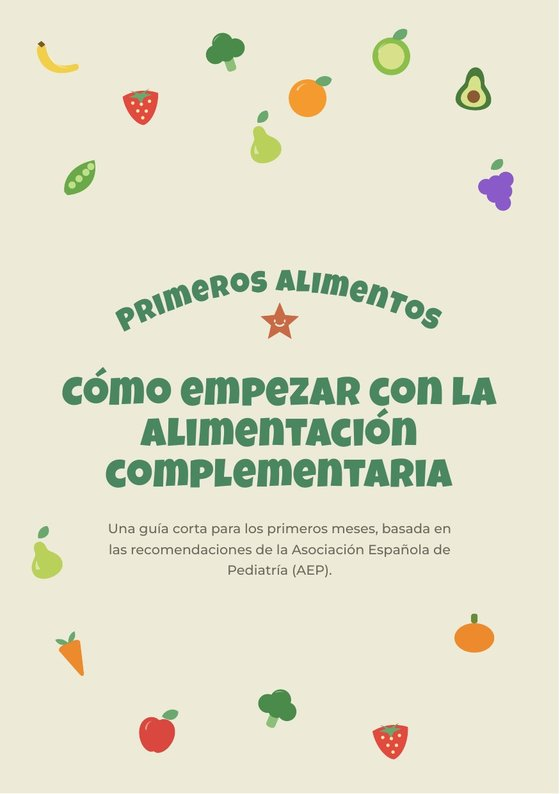
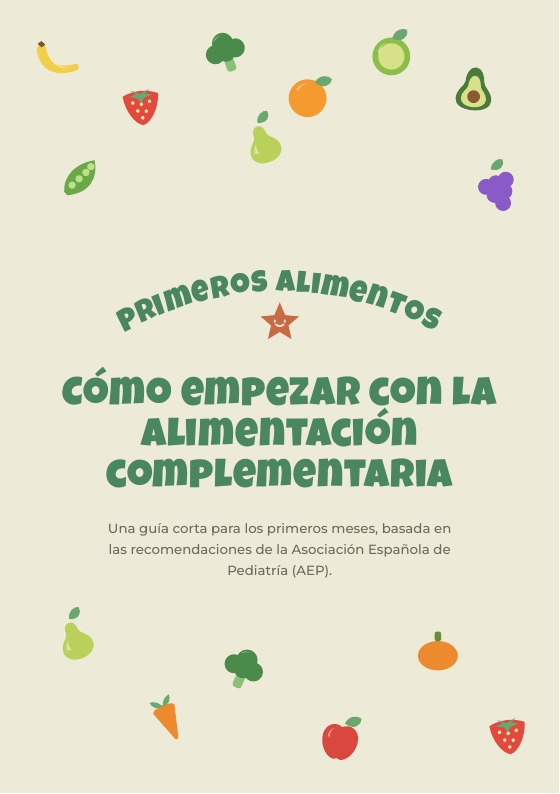
Home y blog: títulos sin etiquetas, mockup de la app en los artículos y portada de la guía
- Home: quitadas las etiquetas pequeñas sobre los títulos y títulos reescritos
  para que se entiendan solos. Más aire bajo el check de «¡Ya estás dentro!».
- Artículos: el bloque «Todo esto, en una app» lleva el mockup con dos pantallas.
- Blog: logo más grande en la cabecera.
- Guía PDF: frutas de la parte de abajo de la portada mejor repartidas
  (y la imagen de la portada en la web).

Claude-Session: https://claude.ai/code/session_011xjvAMdN8ANHfhiVhnxguA

diff --git a/index.html b/index.html
@@ -77,7 +77,7 @@ input[type=email]:focus{border-color:var(--green)}
 .err{margin:10px 0 0;min-height:0;color:#b3322a;font-size:.86rem;font-weight:600}
 .err:empty{display:none}
 .done{text-align:center}
-.done>svg{width:40px;height:40px}
+.done>svg{width:40px;height:40px;margin:0 auto 14px!important}
 .done h3{margin:4px 0 8px;font-size:1.7rem;color:var(--green);line-height:1.1}
 .done p{margin:0 0 18px;color:var(--mute);font-size:.95rem}
 .done .btns{display:flex;flex-direction:column;gap:10px}
@@ -277,7 +277,7 @@ footer .links{max-width:36em;margin-left:auto!important;margin-right:auto!import
 <main>
   <section id="como">
     <div class="wrap">
-      <span class="kick">Cómo funciona</span>
+      
       <h2>Qué le doy hoy, resuelto</h2>
       <p class="intro">Todo lo que necesitas para sus primeras comidas, en un solo sitio.</p>
 
@@ -323,7 +323,7 @@ footer .links{max-width:36em;margin-left:auto!important;margin-right:auto!import
         </div>
       </div>
 
-      <div class="fhead"><span class="kick">Y además</span><h2>Lo que te quita trabajo</h2></div>
+      <div class="fhead"><h2>Y además, te quita trabajo</h2></div>
       <div class="fgrid">
         <div class="fcard" style="--c:#4a8760">
           <div class="fic"><svg class="fd" viewBox="-3 -3 54 54" aria-hidden="true"><rect class="o" x="20" y="28" width="9" height="16" rx="3" fill="#8bbf7a" /><ellipse class="o" cx="14" cy="24" rx="9" ry="9" fill="#4a8a4a" /><ellipse class="o" cx="34" cy="24" rx="9" ry="9" fill="#4a8a4a" /><ellipse class="o" cx="24" cy="16" rx="10" ry="10" fill="#4a8a4a" /><ellipse class="o" cx="24" cy="26" rx="8" ry="8" fill="#4a8a4a" /><path d="M16 12c2-3 5-4 8-4-4 1-6 3-8 4z" fill="#fff" opacity=".45" stroke="none"/></svg></div>
@@ -352,8 +352,8 @@ footer .links{max-width:36em;margin-left:auto!important;margin-right:auto!import
       <div class="mewrap">
       <figure class="mephoto"><img src="capturas/martina.jpg" alt="Martina con Pol" onerror="this.parentElement.classList.add('empty')"><span>Tu foto aquí<br><small>capturas/martina.jpg</small></span></figure>
       <div>
-      <span class="kick">Por qué existe</span>
-      <h2>La hice para mí</h2>
+      
+      <h2>Por qué hice esta app</h2>
       <p>Soy Martina, diseñadora de producto y madre de Pol. Cuando empezó a comer probé las apps que había y ninguna me servía para lo de cada día: saber qué le tocaba, qué había probado ya y cómo se lo había dado.</p>
       <p>Así que me hice la mía. Estas semanas la han probado otras mamás, la hemos ido mejorando con lo que nos decían, y el 1 de diciembre la abro para todas.</p>
       <p class="sig">Martina</p>
@@ -370,8 +370,8 @@ footer .links{max-width:36em;margin-left:auto!important;margin-right:auto!import
     <div class="wrap guide">
       <div class="pages" aria-hidden="true"><img class="pg2" src="capturas/guia-2.jpg" alt=""><img class="pg1" src="capturas/guia-1.jpg" alt=""></div>
       <div>
-        <span class="kick">Gratis al apuntarte</span>
-        <h2>La guía para empezar</h2>
+        
+        <h2>Tu guía gratis para empezar</h2>
         <ul class="toc">
           <li>Cuándo empezar y las señales de que está listo</li>
           <li>Qué ofrecer primero y cómo meter los alérgenos</li>
@@ -396,8 +396,8 @@ footer .links{max-width:36em;margin-left:auto!important;margin-right:auto!import
 
 <section class="blogs">
   <div class="wrap">
-    <span class="kick">Del blog</span>
-    <h2>Para leer mientras tanto</h2>
+    
+    <h2>Para leer mientras tanto, en el blog</h2>
     <div class="bgrid">
       <a class="bcard" href="/blog/cuando-empezar-alimentacion-complementaria/"><i><svg class="fd" viewBox="-3 -3 54 54" aria-hidden="true"><path class="o" d="M9 8c3-1 5 1 5 4 0 15 9 22 25 20 3 0 4 4 1 6C21 42 5 34 5 14c0-3 2-5 4-6z" fill="#f2cf4a" /><path class="o" d="M7 7l4-2 3 4-4 2z" fill="#7a5a2d" /><path d="M16 20c3 8 9 13 17 15-9-1-16-6-17-15z" fill="#fff" opacity=".45" stroke="none"/></svg></i><b>Cuándo empezar con la alimentación complementaria</b><span>Las 4 señales de que tu bebé está listo</span></a>
       <a class="bcard" href="/blog/arcada-o-atragantamiento-bebe/"><i><svg class="fd" viewBox="-3 -3 54 54" aria-hidden="true"><ellipse class="o" cx="14" cy="20" rx="7.5" ry="7.5" fill="#8a5ac8" /><ellipse class="o" cx="24" cy="20" rx="7.5" ry="7.5" fill="#8a5ac8" /><ellipse class="o" cx="34" cy="20" rx="7.5" ry="7.5" fill="#8a5ac8" /><ellipse class="o" cx="19" cy="30" rx="7.5" ry="7.5" fill="#8a5ac8" /><ellipse class="o" cx="29" cy="30" rx="7.5" ry="7.5" fill="#8a5ac8" /><ellipse class="o" cx="24" cy="40" rx="7.5" ry="7.5" fill="#8a5ac8" /><path class="o" d="M24 12V4" fill="none"/><path class="o" d="M0 0c4-7 13-7 16-3-1 7-9 10-16 3z" fill="#6aa86f" transform="translate(24 6) rotate(-10) scale(0.9)"/></svg></i><b>Arcada o atragantamiento</b><span>Cómo distinguirlos y qué hacer</span></a>

diff --git a/blog/cuando-empezar-alimentacion-complementaria/index.html b/blog/cuando-empezar-alimentacion-complementaria/index.html
@@ -50,7 +50,7 @@
 <p>Los alérgenos (huevo, pescado, frutos secos en crema, gluten, lácteos) se pueden introducir pronto y en poca cantidad: retrasarlos más allá de los 6 meses no previene la alergia.</p>
 
 <section class="faq"><h2>Preguntas frecuentes</h2><details><summary>¿Puedo empezar a los 4 meses?</summary><p>La AEP recomienda empezar hacia los 6 meses y nunca antes de los 4. Si te planteas empezar antes de los 6, consúltalo con tu pediatra.</p></details><details><summary>¿Tiene que empezar con fruta o con cereales?</summary><p>No hay un orden obligatorio. Lo importante es incluir alimentos ricos en hierro y zinc desde el principio.</p></details><details><summary>¿Cuánto tiene que comer al principio?</summary><p>Muy poco. La leche sigue siendo su alimento principal hasta el año y la comida complementa. Él decide cuánto come.</p></details></section>
-<section class="cta"><p class="t disp">Todo esto, en una app</p><p>Qué darle cada día, lo que ya ha probado y estas dudas resueltas, en el móvil. Sale el 1 de diciembre.</p><a class="btn" style="background:#fff;color:var(--green)!important;box-shadow:0 4px 0 rgba(0,0,0,.15)" href="https://www.primerosalimentos.com/?o=blog-cuando-empezar-alime">Apúntate y llévate la guía gratis</a></section>
+<section class="cta"><img class="mk" src="https://www.primerosalimentos.com/capturas/mockup-app.webp" width="640" height="652" loading="lazy" alt="Dos pantallas de la app Primeros Alimentos: el menú del día y los alimentos que ha probado"><div><p class="t disp">Todo esto, en una app</p><p>Qué darle cada día, lo que ya ha probado y estas dudas resueltas, en el móvil. Sale el 1 de diciembre.</p><a class="btn" style="background:#fff;color:var(--green)!important;box-shadow:0 4px 0 rgba(0,0,0,.15)" href="https://www.primerosalimentos.com/?o=blog-cuando-empezar-alime">Apúntate y llévate la guía gratis</a></div></section>
 <section class="rel"><h2>Sigue leyendo</h2><a class="r" href="https://www.primerosalimentos.com/blog/arcada-o-atragantamiento-bebe/"><svg class="fd" viewBox="-3 -3 54 54" aria-hidden="true"><ellipse class="o" cx="14" cy="20" rx="7.5" ry="7.5" fill="#8a5ac8" /><ellipse class="o" cx="24" cy="20" rx="7.5" ry="7.5" fill="#8a5ac8" /><ellipse class="o" cx="34" cy="20" rx="7.5" ry="7.5" fill="#8a5ac8" /><ellipse class="o" cx="19" cy="30" rx="7.5" ry="7.5" fill="#8a5ac8" /><ellipse class="o" cx="29" cy="30" rx="7.5" ry="7.5" fill="#8a5ac8" /><ellipse class="o" cx="24" cy="40" rx="7.5" ry="7.5" fill="#8a5ac8" /><path class="o" d="M24 12V4" fill="none"/><path class="o" d="M0 0c4-7 13-7 16-3-1 7-9 10-16 3z" fill="#6aa86f" transform="translate(24 6) rotate(-10) scale(0.9)"/></svg><span>Arcada o atragantamiento en el bebé: cómo distinguirlos y qué hacer</span></a></section>
 <p class="note">Fuente: <a href="https://enfamilia.aeped.es/noticias/recomendaciones-asociacion-espanola-pediatria-sobre-alimentacion" rel="noopener">Recomendaciones de la Asociación Española de Pediatría sobre la alimentación complementaria</a>. Información orientativa: ante cualquier duda, consulta con tu pediatra.</p>
 </article></main><footer><div class="soc"><a href="https://www.instagram.com/primeros.alimentos/" rel="noopener"><svg viewBox="0 0 24 24" aria-hidden="true"><rect x="3" y="3" width="18" height="18" rx="5" fill="none" stroke="currentColor" stroke-width="2"/><circle cx="12" cy="12" r="4" fill="none" stroke="currentColor" stroke-width="2"/><circle cx="17.3" cy="6.7" r="1.3" fill="currentColor"/></svg>Instagram</a><a href="https://www.tiktok.com/" rel="noopener"><svg viewBox="0 0 24 24" aria-hidden="true"><path d="M15.5 3c.4 2.6 2 4.3 4.5 4.6v3.2c-1.7 0-3.2-.5-4.5-1.4v6.3A5.6 5.6 0 1 1 9.9 10v3.3a2.4 2.4 0 1 0 2.4 2.4V3z" fill="currentColor"/></svg>TikTok</a></div><div class="links"><a href="https://www.primerosalimentos.com/">Primeros Alimentos</a><a href="https://www.primerosalimentos.com/blog/">Blog</a><a href="https://www.primerosalimentos.com/privacy.html">Privacidad</a><a href="https://www.primerosalimentos.com/privacy.html#cookies" data-cookies>Cookies</a></div>

diff --git a/blog/arcada-o-atragantamiento-bebe/index.html b/blog/arcada-o-atragantamiento-bebe/index.html
@@ -62,7 +62,7 @@
 </ul>
 
 <section class="faq"><h2>Preguntas frecuentes</h2><details><summary>¿Es normal que mi bebé haga muchas arcadas?</summary><p>Sí. Al principio el reflejo de arcada está más adelantado y le protege. Suele disminuir a medida que aprende a comer.</p></details><details><summary>¿El BLW aumenta el riesgo de atragantamiento?</summary><p>Si se ofrece de forma segura (alimentos blandos, con la forma adecuada y el bebé sentado y vigilado), los estudios no han encontrado más atragantamientos que con el puré.</p></details><details><summary>¿Debo meterle el dedo si tiene una arcada?</summary><p>No. Podrías empujar la comida hacia dentro. Mantén la calma y déjale toser.</p></details></section>
-<section class="cta"><p class="t disp">Todo esto, en una app</p><p>Qué darle cada día, lo que ya ha probado y estas dudas resueltas, en el móvil. Sale el 1 de diciembre.</p><a class="btn" style="background:#fff;color:var(--green)!important;box-shadow:0 4px 0 rgba(0,0,0,.15)" href="https://www.primerosalimentos.com/?o=blog-arcada-o-atragantami">Apúntate y llévate la guía gratis</a></section>
+<section class="cta"><img class="mk" src="https://www.primerosalimentos.com/capturas/mockup-app.webp" width="640" height="652" loading="lazy" alt="Dos pantallas de la app Primeros Alimentos: el menú del día y los alimentos que ha probado"><div><p class="t disp">Todo esto, en una app</p><p>Qué darle cada día, lo que ya ha probado y estas dudas resueltas, en el móvil. Sale el 1 de diciembre.</p><a class="btn" style="background:#fff;color:var(--green)!important;box-shadow:0 4px 0 rgba(0,0,0,.15)" href="https://www.primerosalimentos.com/?o=blog-arcada-o-atragantami">Apúntate y llévate la guía gratis</a></div></section>
 <section class="rel"><h2>Sigue leyendo</h2><a class="r" href="https://www.primerosalimentos.com/blog/cuando-empezar-alimentacion-complementaria/"><svg class="fd" viewBox="-3 -3 54 54" aria-hidden="true"><path class="o" d="M9 8c3-1 5 1 5 4 0 15 9 22 25 20 3 0 4 4 1 6C21 42 5 34 5 14c0-3 2-5 4-6z" fill="#f2cf4a" /><path class="o" d="M7 7l4-2 3 4-4 2z" fill="#7a5a2d" /><path d="M16 20c3 8 9 13 17 15-9-1-16-6-17-15z" fill="#fff" opacity=".45" stroke="none"/></svg><span>Cuándo empezar con la alimentación complementaria: señales de que tu bebé está listo</span></a></section>
 <p class="note">Fuente: <a href="https://enfamilia.aeped.es/noticias/recomendaciones-asociacion-espanola-pediatria-sobre-alimentacion" rel="noopener">Recomendaciones de la Asociación Española de Pediatría sobre la alimentación complementaria</a>. Información orientativa: ante cualquier duda, consulta con tu pediatra.</p>
 </article></main><footer><div class="soc"><a href="https://www.instagram.com/primeros.alimentos/" rel="noopener"><svg viewBox="0 0 24 24" aria-hidden="true"><rect x="3" y="3" width="18" height="18" rx="5" fill="none" stroke="currentColor" stroke-width="2"/><circle cx="12" cy="12" r="4" fill="none" stroke="currentColor" stroke-width="2"/><circle cx="17.3" cy="6.7" r="1.3" fill="currentColor"/></svg>Instagram</a><a href="https://www.tiktok.com/" rel="noopener"><svg viewBox="0 0 24 24" aria-hidden="true"><path d="M15.5 3c.4 2.6 2 4.3 4.5 4.6v3.2c-1.7 0-3.2-.5-4.5-1.4v6.3A5.6 5.6 0 1 1 9.9 10v3.3a2.4 2.4 0 1 0 2.4 2.4V3z" fill="currentColor"/></svg>TikTok</a></div><div class="links"><a href="https://www.primerosalimentos.com/">Primeros Alimentos</a><a href="https://www.primerosalimentos.com/blog/">Blog</a><a href="https://www.primerosalimentos.com/privacy.html">Privacidad</a><a href="https://www.primerosalimentos.com/privacy.html#cookies" data-cookies>Cookies</a></div>

diff --git a/_build/template.html b/_build/template.html
@@ -75,7 +75,7 @@ input[type=email]:focus{border-color:var(--green)}
 .err{margin:10px 0 0;min-height:0;color:#b3322a;font-size:.86rem;font-weight:600}
 .err:empty{display:none}
 .done{text-align:center}
-.done>svg{width:40px;height:40px}
+.done>svg{width:40px;height:40px;margin:0 auto 14px!important}
 .done h3{margin:4px 0 8px;font-size:1.7rem;color:var(--green);line-height:1.1}
 .done p{margin:0 0 18px;color:var(--mute);font-size:.95rem}
 .done .btns{display:flex;flex-direction:column;gap:10px}
@@ -275,7 +275,7 @@ footer .links{max-width:36em;margin-left:auto!important;margin-right:auto!import
 <main>
   <section id="como">
     <div class="wrap">
-      <span class="kick">Cómo funciona</span>
+      
       <h2>Qué le doy hoy, resuelto</h2>
       <p class="intro">Todo lo que necesitas para sus primeras comidas, en un solo sitio.</p>
 
@@ -321,7 +321,7 @@ footer .links{max-width:36em;margin-left:auto!important;margin-right:auto!import
         </div>
       </div>
 
-      <div class="fhead"><span class="kick">Y además</span><h2>Lo que te quita trabajo</h2></div>
+      <div class="fhead"><h2>Y además, te quita trabajo</h2></div>
       <div class="fgrid">
         <div class="fcard" style="--c:#4a8760">
           <div class="fic">__I1__</div>
@@ -350,8 +350,8 @@ footer .links{max-width:36em;margin-left:auto!important;margin-right:auto!import
       <div class="mewrap">
       <figure class="mephoto"><img src="capturas/martina.jpg" alt="Martina con Pol" onerror="this.parentElement.classList.add('empty')"><span>Tu foto aquí<br><small>capturas/martina.jpg</small></span></figure>
       <div>
-      <span class="kick">Por qué existe</span>
-      <h2>La hice para mí</h2>
+      
+      <h2>Por qué hice esta app</h2>
       <p>Soy Martina, diseñadora de producto y madre de Pol. Cuando empezó a comer probé las apps que había y ninguna me servía para lo de cada día: saber qué le tocaba, qué había probado ya y cómo se lo había dado.</p>
       <p>Así que me hice la mía. Estas semanas la han probado otras mamás, la hemos ido mejorando con lo que nos decían, y el 1 de diciembre la abro para todas.</p>
       <p class="sig">Martina</p>
@@ -368,8 +368,8 @@ footer .links{max-width:36em;margin-left:auto!important;margin-right:auto!import
     <div class="wrap guide">
       <div class="pages" aria-hidden="true"><img class="pg2" src="capturas/guia-2.jpg" alt=""><img class="pg1" src="capturas/guia-1.jpg" alt=""></div>
       <div>
-        <span class="kick">Gratis al apuntarte</span>
-        <h2>La guía para empezar</h2>
+        
+        <h2>Tu guía gratis para empezar</h2>
         <ul class="toc">
           <li>Cuándo empezar y las señales de que está listo</li>
           <li>Qué ofrecer primero y cómo meter los alérgenos</li>
@@ -394,8 +394,8 @@ footer .links{max-width:36em;margin-left:auto!important;margin-right:auto!import
 
 <section class="blogs">
   <div class="wrap">
-    <span class="kick">Del blog</span>
-    <h2>Para leer mientras tanto</h2>
+    
+    <h2>Para leer mientras tanto, en el blog</h2>
     <div class="bgrid">
       <a class="bcard" href="../blog/cuando-empezar-alimentacion-complementaria/"><i>__B1__</i><b>Cuándo empezar con la alimentación complementaria</b><span>Las 4 señales de que tu bebé está listo</span></a>
       <a class="bcard" href="../blog/arcada-o-atragantamiento-bebe/"><i>__B2__</i><b>Arcada o atragantamiento</b><span>Cómo distinguirlos y qué hacer</span></a>

diff --git a/blog/blog.css b/blog/blog.css
@@ -5,7 +5,7 @@ body{margin:0;background:var(--bg);color:var(--ink);font:400 18px/1.7 Montserrat
 a{color:var(--green)}
 .disp,h1,h2.t{font-family:"Luckiest Guy","Arial Rounded MT Bold",sans-serif;font-weight:400;letter-spacing:.02em}
 .top{display:grid;grid-template-columns:1fr auto 1fr;align-items:center;gap:16px;width:min(1080px,100% - 40px);margin:0 auto;padding:22px 0}
-.top .lg{display:block;width:clamp(120px,30vw,170px);flex:none}.top .lg svg{display:block;width:100%;overflow:visible}
+.top .lg{display:block;width:clamp(170px,46vw,250px);flex:none}.top .lg svg{display:block;width:100%;overflow:visible}
 .top nav{display:flex;gap:18px;align-items:center;font-weight:700;font-size:.92rem}
 .top nav a{color:var(--ink);text-decoration:none}
 .top .lg{grid-column:2}.top nav{grid-column:3;justify-self:end}
@@ -46,7 +46,9 @@ article li::marker{color:var(--terra);font-weight:800}
 .faq summary::after{content:"+";float:right;color:var(--terra);font-weight:800}
 .faq details[open] summary::after{content:"–"}
 .faq details p{margin:10px 0 0;color:var(--mute)}
-.cta{margin:52px 0 0;padding:32px;border-radius:24px;background:var(--green);color:#fff;text-align:center}
+.cta{margin:70px 0 0;padding:28px 32px 28px 12px;border-radius:24px;background:var(--green);color:#fff;text-align:left;display:grid;grid-template-columns:46% 1fr;gap:18px;align-items:center}
+.cta .mk{display:block;width:100%;height:auto;margin:-64px 0 -36px}
+@media(max-width:640px){.cta{grid-template-columns:1fr;text-align:center;padding:0 24px 30px;margin-top:90px}.cta .mk{width:min(300px,82%);margin:-70px auto 0}}
 .cta .t{font-size:1.7rem;line-height:1.1;margin:0 0 10px}
 .cta p{margin:0 0 20px;color:rgba(255,255,255,.88)}
 .rel{margin:52px 0 0}.rel h2{margin-top:0}

diff --git a/_build/build_site.py b/_build/build_site.py
@@ -24,7 +24,7 @@ body{margin:0;background:var(--bg);color:var(--ink);font:400 18px/1.7 Montserrat
 a{color:var(--green)}
 .disp,h1,h2.t{font-family:"Luckiest Guy","Arial Rounded MT Bold",sans-serif;font-weight:400;letter-spacing:.02em}
 .top{display:grid;grid-template-columns:1fr auto 1fr;align-items:center;gap:16px;width:min(1080px,100% - 40px);margin:0 auto;padding:22px 0}
-.top .lg{display:block;width:clamp(120px,30vw,170px);flex:none}.top .lg svg{display:block;width:100%;overflow:visible}
+.top .lg{display:block;width:clamp(170px,46vw,250px);flex:none}.top .lg svg{display:block;width:100%;overflow:visible}
 .top nav{display:flex;gap:18px;align-items:center;font-weight:700;font-size:.92rem}
 .top nav a{color:var(--ink);text-decoration:none}
 .top .lg{grid-column:2}.top nav{grid-column:3;justify-self:end}
@@ -65,7 +65,9 @@ article li::marker{color:var(--terra);font-weight:800}
 .faq summary::after{content:"+";float:right;color:var(--terra);font-weight:800}
 .faq details[open] summary::after{content:"–"}
 .faq details p{margin:10px 0 0;color:var(--mute)}
-.cta{margin:52px 0 0;padding:32px;border-radius:24px;background:var(--green);color:#fff;text-align:center}
+.cta{margin:70px 0 0;padding:28px 32px 28px 12px;border-radius:24px;background:var(--green);color:#fff;text-align:left;display:grid;grid-template-columns:46% 1fr;gap:18px;align-items:center}
+.cta .mk{display:block;width:100%;height:auto;margin:-64px 0 -36px}
+@media(max-width:640px){.cta{grid-template-columns:1fr;text-align:center;padding:0 24px 30px;margin-top:90px}.cta .mk{width:min(300px,82%);margin:-70px auto 0}}
 .cta .t{font-size:1.7rem;line-height:1.1;margin:0 0 10px}
 .cta p{margin:0 0 20px;color:rgba(255,255,255,.88)}
 .rel{margin:52px 0 0}.rel h2{margin-top:0}
@@ -141,7 +143,7 @@ for a in ARTICLES:
 <p class="lead">{a['lead']}</p></header>
 {a['body']}
 {('<section class="faq"><h2>Preguntas frecuentes</h2>'+faq+'</section>') if faq else ""}
-<section class="cta"><p class="t disp">Todo esto, en una app</p><p>Qué darle cada día, lo que ya ha probado y estas dudas resueltas, en el móvil. Sale el 1 de diciembre.</p><a class="btn" style="background:#fff;color:var(--green)!important;box-shadow:0 4px 0 rgba(0,0,0,.15)" href="{BASE}/?o=blog-{a['slug'][:20]}">Apúntate y llévate la guía gratis</a></section>
+<section class="cta"><img class="mk" src="{BASE}/capturas/mockup-app.webp" width="640" height="652" loading="lazy" alt="Dos pantallas de la app Primeros Alimentos: el menú del día y los alimentos que ha probado"><div><p class="t disp">Todo esto, en una app</p><p>Qué darle cada día, lo que ya ha probado y estas dudas resueltas, en el móvil. Sale el 1 de diciembre.</p><a class="btn" style="background:#fff;color:var(--green)!important;box-shadow:0 4px 0 rgba(0,0,0,.15)" href="{BASE}/?o=blog-{a['slug'][:20]}">Apúntate y llévate la guía gratis</a></div></section>
 <section class="rel"><h2>Sigue leyendo</h2>{rel}</section>
 <p class="note">Fuente: <a href="{U_AEP}" rel="noopener">Recomendaciones de la Asociación Española de Pediatría sobre la alimentación complementaria</a>. Información orientativa: ante cualquier duda, consulta con tu pediatra.</p>
 </article></main>'''+FOOT

diff --git a/_build/build_pdf.py b/_build/build_pdf.py
@@ -2,7 +2,7 @@ import json,random
 I=json.load(open('/tmp/pdfic.json'))
 t=open('guia_template.html').read()
 random.seed(4)
-pos=[(8,8),(30,20),(52,6),(74,18),(96,7),(118,16),(14,40),(124,42),(62,30),(12,166),(118,160),(34,186),(96,188),(66,180),(4,140)]
+pos=[(8,8),(30,20),(52,6),(74,18),(96,7),(118,16),(14,40),(124,42),(62,30),(37,182.7),(108.3,164.7),(82.4,187.8),(126.9,186.6),(57.1,169.4),(12.2,161.3)]
 names=['Plátano','Fresas','Brócoli','Mandarina','Kiwi','Aguacate','Guisantes','Uvas','Pera','Zanahoria','Calabaza','Manzana','Fresas','Brócoli','Pera']
 sc=''.join(I[n].replace('<svg class="fd"',f'<svg class="fd" style="left:{x}mm;top:{y}mm;transform:rotate({random.randint(-25,25)}deg)"') for n,(x,y) in zip(names,pos))
 iron=''.join(I[n] for n in ["Pollo","Merluza","Huevo","Lentejas"])
